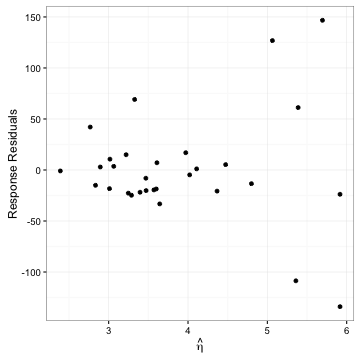
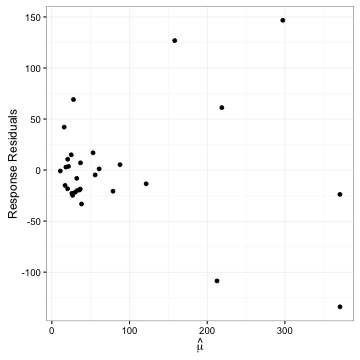
small edits and additions

diff --git a/_posts/2015-10-21-OLS-Interpret-Coef.md b/_posts/2015-10-21-OLS-Interpret-Coef.md
@@ -21,7 +21,7 @@ x2 <- mtcars$drat
 m1 <- lm(y ~ x1 + x2)
 {% endhighlight %}
 
-With continuous variables, the $$ \beta $$ coefficient can be interpreted as the change in Y for a unit increase in X, holding all other x-values constant. The corresponding test measures whether this effect is significantly different from 0, after all other variables have been considered. 
+With continuous variables, the $$ \beta $$ coefficient can be interpreted as the change in $$Y$$ for a unit increase in X, holding all other x-values constant. The corresponding test measures whether this effect is significantly different from $$0$$, after all other variables have been considered. 
 
 Note that the interpretation of coefficients can be complicated with high collinearity. For example if $$x_1$$ is correlated with $$x_2$$, then increasing $$x_1$$ would lead to an increase of $$x_2$$ even when we are trying to hold $$x_2$$ fixed. Thus it is important to examine multicollinearity among the covariates (discussed in [diagnostics post][diagnostics_post]{:target="_blank"}).
 
@@ -54,7 +54,7 @@ after - b4 # same as x1 coefficient
 ## -4.78289
 {% endhighlight %}
 
-When we fit a linear model, we generally include an intercept term. This intercept is interpreted as the expected value of Y when all x's are set to 0. The intercept is a nuisance parameter, we generally don't care about its significance. 
+When we fit a linear model, we generally include an intercept term. This intercept is interpreted as the expected value of $$Y$$ when all x's are set to $$0$$. The intercept is a nuisance parameter, we generally don't care about its significance. 
 
 
 {% highlight r %}
@@ -83,11 +83,21 @@ predict(m1, data.frame(x1 = 0, x2 = 0)) # same as intercept term
 ## 30.29037
 {% endhighlight %}
 
+## Excluding the Intercept Term
 If we were to remove the intercept term, we would have
 
 $$ Y = 0 + \beta_1 x_1 + \beta_2 x_2 $$ where $$ \beta_0 = 0 $$.
 
-Thus when we fit a regression without an intercept, we insist that the expected value of Y when all x's are 0 is 0. If we know that the intercept is 0, doing so will give us more residual degrees of freedom. However, care should be done in setting the intercept to 0, as this may lead to errors in estimating the other coefficients. 
+Thus when we fit a regression without an intercept, we insist that the expected value of $$Y$$ when all x's are $$0$$ is $$0$$. If we know that the intercept is $$0$$, doing so will give us more residual degrees of freedom. However, care should be done in setting the intercept to $$0$$, as this may lead to errors in estimating the other coefficients. 
+
+## Center and Scaling Features
+Sometimes we may want to center and scale the data prior to fitting models. While interpretation of coefficients may change, the model is essentially the same model. 
+
+In some cases it may not make sense to interpret the intercept when the predictors are set to zero. For example, consider the model $$Y = \alpha + \beta_1 * height + \beta_2 * weight$$. The intercept is the expected value of $$Y$$ when $$height$$ and $$weight$$ are set to $$0$$, but that isn't terribly useful. 
+
+Now, consider the model where $$height$$ and $$weight$$ are centered around their respective means. Then the intercept is the expected value of $$Y$$ for the average $$height$$ and $$weight$$ (ie the average person). It is not always necessary to use the mean of the data. One can also center based on an understandable reference point. 
+
+Coefficients may be easier to interpret when all features are standardized to a similar scale. Following standardization, the coefficients are interpreted in units of standard deviations with respect to the corresponding predictor. The intercept is the expected value of $$Y$$ when the predictors are at their mean values. 
 
 # Categorical Variables
 
@@ -97,9 +107,9 @@ Thus when we fit a regression without an intercept, we insist that the expected 
 m2 <- lm(Petal.Length ~ Species, data = iris)
 {% endhighlight %}
 
-Linear models with categorical variables are converted into dummy variables. Coefficients rely some information about the expected value of Y for that category. 
+Linear models with categorical variables are converted into dummy variables. Coefficients rely some information about the expected value of $$Y$$ for that category. 
 
-The intercept is interpreted as the expected value of Y for the baseline variable. 
+The intercept is interpreted as the expected value of $$Y$$ for the baseline variable. 
 
 
 {% highlight r %}
@@ -131,7 +141,7 @@ baseline # same as intercept term
 ## 1 1.462
 {% endhighlight %}
 
-The other coefficients represent the expected difference in Y between the specified category and the baseline category. The corresponding test measures whether the expected value of Y for the specified category and the baseline are significantly different from 0.
+The other coefficients represent the expected difference in $$Y$$ between the specified category and the baseline category. The corresponding test measures whether the expected value of $$Y$$ for the specified category and the baseline are significantly different from $$0$$.
 
 
 {% highlight r %}
@@ -162,7 +172,8 @@ iris %>% # same as versicolor coefficient
 ## 1 2.798
 {% endhighlight %}
 
-When the intercept term is excluded, the coefficients are no longer relative comparisons. Instead, they are the expected value of Y for that group. The test measures whether the mean is significant different from 0, doesn't portray much meaning. Because of this, there is no meaning in running a linear model without an intercept for categorical covariates.
+### Excluding the Intercept
+When the intercept term is excluded, the coefficients are no longer relative comparisons. Instead, they are the expected value of $$Y$$ for that group. The test measures whether the mean is significant different from $$0$$, doesn't portray much meaning. Because of this, there is no meaning in running a linear model without an intercept for categorical covariates.
 
 
 {% highlight r %}
@@ -263,6 +274,7 @@ summary(m4a)$coefficients %>% round(3)
 ## Petal.Length:Speciesvirginica     0.453      0.290   1.563    0.120
 {% endhighlight %}
 
+## Excluding the Intercept
 If we were to remove the intercept, we have the following regression lines.
 
 If Species == "setosa":

diff --git a/_posts/2015-11-25-GLM-Testing-and-Diagnostics.md b/_posts/2015-11-25-GLM-Testing-and-Diagnostics.md
@@ -13,8 +13,8 @@ categories: ['statistics', 'regression analysis']
 # Hypothesis Testing
 
 * Null model: intercept only model
-* Saturated model: model with n obs and n parameters, each data point has its own parameter
-* Proposed model: model with p parameters, model that you fit
+* Saturated model: model with $$n$$ obs and $$n$$ parameters, each data point has its own parameter
+* Proposed model: model with $$p$$ parameters, model that you fit
 
 ## Deviance
 Derived from the likelihood ratio statistic, deviance is defined as 
@@ -254,13 +254,56 @@ When we plot using the response residuals, we will see variation patterns consis
 
 {% highlight r %}
 # response residuals vs fitted link
-qplot(y = residuals(mod, "response"), x = predict(mod, type = "link")) + 
-  xlab(expression(hat(eta))) + 
+qplot(y = residuals(mod, "response"), x = exp(predict(mod, type = "link"))) + 
+  xlab(expression(hat(mu))) + 
   ylab("Response Residuals")
 {% endhighlight %}
 
 <img src="/nhuyhoa/figure/source/2015-11-25-GLM-Testing-and-Diagnostics/unnamed-chunk-9-1.png" title="plot of chunk unnamed-chunk-9" alt="plot of chunk unnamed-chunk-9" style="display: block; margin: auto;" />
 Here we see a pattern of increasing variation consistent with the Poisson distribution. 
+
+Another way to spot outliers is to bin the response residuals into equal-sized groups by the fitted values. Within each group, we can compute the average residual and average fitted value. We can plot the lines $$0 \pm 2 * SE$$ (where $$SE$$ is a function of bin size) within which we expect $$95$$% of the binned residuals to fall if the model was true. 
+
+
+{% highlight r %}
+# we have groups of size n
+n <- 2
+
+# organize data
+df <- data.frame(resid = residuals(mod, "response"), fit = exp(predict(mod, type = "link")))
+
+# label/group the data based off the fitted value
+lab_df <- df %>% 
+  arrange(fit) %>% 
+  mutate(lab = rep(1:15, each = n)) 
+
+# bin the residuals
+bin_df <- lab_df %>% 
+  group_by(lab) %>% 
+  summarise(r = mean(resid), f = mean(fit))
+{% endhighlight %}
+
+
+{% highlight r %}
+# compute the standard error for each bin
+se <- exp(predict(mod, type = "link")) / n
+bounds <- data.frame(c = rep(exp(predict(mod, type = "link")), 2), bounds = c(0 - 2 * se, 0 + 2*se), group = rep(c("below", "above"), each = 30))
+bounds <- arrange(bounds, c)
+{% endhighlight %}
+
+
+{% highlight r %}
+# plot the data
+ggplot(data = bin_df, aes(f, r)) + 
+  geom_point() +
+  geom_line(data = bounds, aes(x = c, y = bounds, group = group), linetype = 2) + 
+  xlab(expression(hat(mu))) + 
+  ylab("Response Residuals")
+{% endhighlight %}
+
+<img src="/nhuyhoa/figure/source/2015-11-25-GLM-Testing-and-Diagnostics/unnamed-chunk-12-1.png" title="plot of chunk unnamed-chunk-12" alt="plot of chunk unnamed-chunk-12" style="display: block; margin: auto;" />
+
+Here one out of the 15 bins fall outside of the bounds, with no concerning patterns. 
 
 ### Half-Normal Plot
 We can plot the sorted absolute residuals to the quantiles of the half normal distribution to identify outliers. We look for points off the trend. (The examples used here are different from the model above).
@@ -277,7 +320,7 @@ halfnorm(rstudent(modpl))
 halfnorm(influence(modpl)$hat)
 {% endhighlight %}
 
-<img src="/nhuyhoa/figure/source/2015-11-25-GLM-Testing-and-Diagnostics/unnamed-chunk-11-1.png" title="plot of chunk unnamed-chunk-11" alt="plot of chunk unnamed-chunk-11" style="display: block; margin: auto;" />
+<img src="/nhuyhoa/figure/source/2015-11-25-GLM-Testing-and-Diagnostics/unnamed-chunk-14-1.png" title="plot of chunk unnamed-chunk-14" alt="plot of chunk unnamed-chunk-14" style="display: block; margin: auto;" />
 The half-norm plot of leverage seems to indicate that obs 25 may have high leverage. 
 
 
@@ -286,7 +329,7 @@ The half-norm plot of leverage seems to indicate that obs 25 may have high lever
 c <- halfnorm(cooks.distance(modpl))
 {% endhighlight %}
 
-<img src="/nhuyhoa/figure/source/2015-11-25-GLM-Testing-and-Diagnostics/unnamed-chunk-12-1.png" title="plot of chunk unnamed-chunk-12" alt="plot of chunk unnamed-chunk-12" style="display: block; margin: auto;" />
+<img src="/nhuyhoa/figure/source/2015-11-25-GLM-Testing-and-Diagnostics/unnamed-chunk-15-1.png" title="plot of chunk unnamed-chunk-15" alt="plot of chunk unnamed-chunk-15" style="display: block; margin: auto;" />
 The half-norm plot indicates that obs 25 has a big Cook's statistic. It might be useful to investigate this observation in closer detail. 
 
 ### Added Variable Plots
@@ -336,7 +379,7 @@ mod <- glm(cbind(damage, 6 - damage) ~ temp, data = orings, family = binomial)
 * Compute the dispersion parameter
 
 {% highlight r %}
-o2 <- sum(residuals(mod, "pearson")) / (nrow(orings) - 1)
+o2 <- sum(residuals(mod, "pearson")^2) / (nrow(orings) - 2)
 {% endhighlight %}
 
 * Estimate the model with the dispersion parameter
@@ -345,6 +388,11 @@ o2 <- sum(residuals(mod, "pearson")) / (nrow(orings) - 1)
 summary(mod, dispersion = o2, correlation = TRUE, symbolic.cor = TRUE)
 {% endhighlight %}
 
+Another option is to fit using the quasi-families (quasibinomial, quasipoisson, etc):
+
+{% highlight r %}
+mod <- glm(cbind(damage, 6 - damage) ~ temp, data = orings, family = quasibinomial)
+{% endhighlight %}
 
 # Solutions to Violation of Assumptions
 

diff --git a/_posts/2016-01-03-ML-Dimension-Reduction.md b/_posts/2016-01-03-ML-Dimension-Reduction.md
@@ -107,6 +107,9 @@ We can also plot the first two principal components against each other with the 
 
 
 {% highlight r %}
+library(ggfortify)
+
+# plot the biplot
 autoplot(prcomp(dat), data = iris, colour = "Species", 
          loadings = TRUE, loadings.label = TRUE,
          loadings.label.size = 3)
@@ -147,7 +150,7 @@ In R, one can do principal components regression with `pls::pcr()`. This package
 
 {% highlight r %}
 # fit PCR
-pcr.fit <- pcr(mpg ~ ., data = mtcars, scale = TRUE, validation = "CV")
+pcr.fit <- pls::pcr(mpg ~ ., data = mtcars, scale = TRUE, validation = "CV")
 # results
 summary(pcr.fit)
 {% endhighlight %}
@@ -163,11 +166,11 @@ summary(pcr.fit)
 ## VALIDATION: RMSEP
 ## Cross-validated using 10 random segments.
 ##        (Intercept)  1 comps  2 comps  3 comps  4 comps  5 comps
-## CV           6.123    2.596    2.618    2.518    2.563    2.682
-## adjCV        6.123    2.588    2.610    2.504    2.548    2.661
+## CV           6.123    2.702    2.721    2.610    2.678    2.738
+## adjCV        6.123    2.690    2.709    2.592    2.659    2.715
 ##        6 comps  7 comps  8 comps  9 comps  10 comps
-## CV       2.734     2.99    2.990    3.265     3.440
-## adjCV    2.708     2.95    2.948    3.207     3.367
+## CV       2.819    2.934    2.994    3.415     3.601
+## adjCV    2.789    2.897    2.952    3.338     3.510
 ## 
 ## TRAINING: % variance explained
 ##      1 comps  2 comps  3 comps  4 comps  5 comps  6 comps  7 comps
@@ -181,7 +184,7 @@ summary(pcr.fit)
 
 
 {% highlight r %}
-validationplot(pcr.fit, val.type = "MSEP")
+pls::validationplot(pcr.fit, val.type = "MSEP")
 {% endhighlight %}
 
 <img src="/nhuyhoa/figure/source/2016-01-03-ML-Dimension-Reduction/unnamed-chunk-9-1.png" title="plot of chunk unnamed-chunk-9" alt="plot of chunk unnamed-chunk-9" style="display: block; margin: auto;" />

diff --git a/_posts/2015-10-20-OLS-Basics.md b/_posts/2015-10-20-OLS-Basics.md
@@ -62,9 +62,9 @@ $$ SSE = (Y - X\hat{\beta})^T(Y - X\hat{\beta}) = Y^TY - \hat{\beta}^TX^TX\hat{\
 
 From this we can derive an unbiased estimate of $$\sigma^2$$, the mean square error:
 
-$$ MSE = \frac{SSE}{n - p - 1} $$
+$$ MSE = \frac{SSE}{n - p} $$
 
-where $$p$$ is the number of features (so $$p + 1$$ is the total number of parameters).
+where $$p$$ is the number of parameters (including the intercept).
 
 Note that we always minimize the $$SSE$$. So the sum of the residuals is always equal to 0.
 
@@ -91,10 +91,10 @@ Thus $$ \hat{\beta} $$ ~ $$ N(\beta, \sigma^2(X^TX)^{-1}) $$, and since $$\sigma
  
 # Regression Assumptions
 Assumptions for OLS require $$ e_i $$ ~ $$ N(0, \sigma^2I) $$, in other words:
-* Normal distribution of errors
 * Linear relationship
-* Constant variance of the errors 
 * Independent, uncorrelated errors
+* Constant variance of the errors 
+* Normal distribution of errors
 
 These assumptions fullfill the requirement of the Gauss-Markov theorem.
 
@@ -123,7 +123,7 @@ c(B)
 
 
 {% highlight text %}
-## [1]  0.24715867 -0.07316415  0.03017137 -0.01064759
+## [1]  0.23580360 -0.02930766 -0.09424126 -0.03981435
 {% endhighlight %}
 
 
@@ -138,6 +138,6 @@ c(coef)
 
 {% highlight text %}
 ## (Intercept)          x1          x2          x3 
-##  0.24715867 -0.07316415  0.03017137 -0.01064759
+##  0.23580360 -0.02930766 -0.09424126 -0.03981435
 {% endhighlight %}
 

diff --git a/_posts/2015-10-30-Split_Apply-Combine.md b/_posts/2015-10-30-Split_Apply-Combine.md
@@ -9,10 +9,6 @@ categories: ['data wrangling']
 {:toc}
 
 
-{% highlight text %}
-## Warning: no function found corresponding to methods exports from
-## 'SparseM' for: 'coerce'
-{% endhighlight %}
 
 Say we are given a data set where we want to group by a given category and compute summary statistics based on that category. The general process is
 
@@ -396,7 +392,7 @@ A few notes:
 
 * wrap functions in `funs()`
 * for functions with additional arguments, do `funs(my_func(., addnl_args))`
-* to remove columns from being included in calculations, list column names after the `funs()` argument with a `-` in front of each name
+* by default these functions will be applied to all columns; to specify or despecify columns `dplyr::select` special functions can be used after the `funs()` argument
 
 Let's convert all the boolean variables to numeric variables. 
 {% highlight r %}

diff --git a/_posts/2015-12-28-ML-KNN.md b/_posts/2015-12-28-ML-KNN.md
@@ -76,7 +76,7 @@ train <- iris[i, ]
 test <- iris[i, ]
 
 # run KNN - randomly chosen k
-pred <- knn(train[, 1:4], test[, 1:4], train$Species, k = 3)
+pred <- class::knn(train[, 1:4], test[, 1:4], train$Species, k = 3)
 
 # cross-tab results
 table(pred, test$Species)
